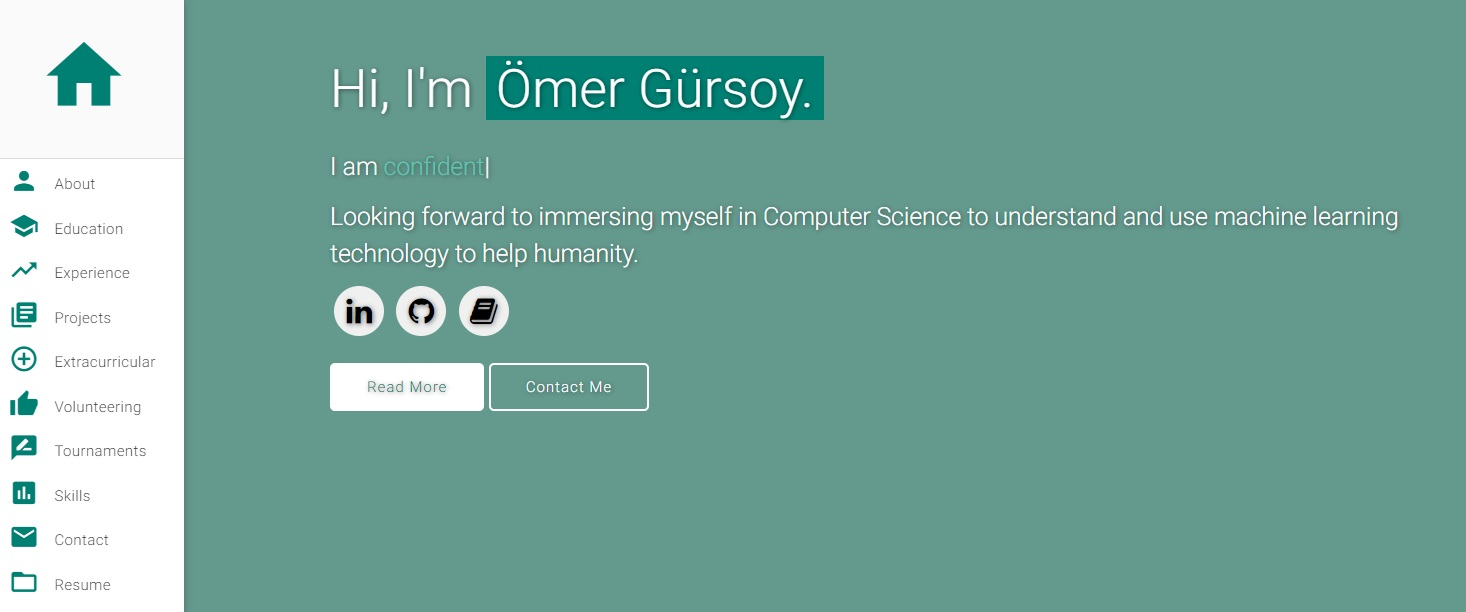
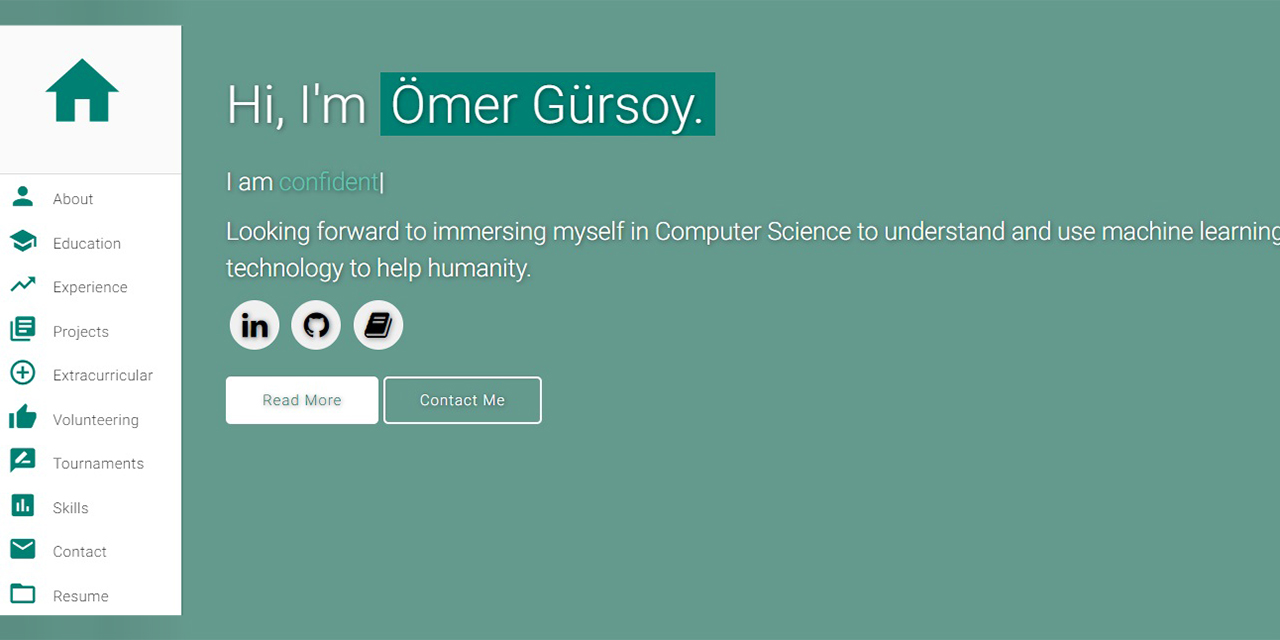
Fixed links and preview resolution.

diff --git a/index.html b/index.html
@@ -19,7 +19,7 @@
   <!-- Font Awesome Icon - CSS-->
   <link rel="stylesheet" href="//maxcdn.bootstrapcdn.com/font-awesome/4.3.0/css/font-awesome.min.css" />
   <!-- Custom Styles-->
-  <link rel="stylesheet" href="/assets/css/style.css" />
+  <link rel="stylesheet" href="https://omergursoy04.github.io/portfolio/assets/css/style.css" />
   <title>Ömer Gürsoy | Student Portfolio</title>
 
   <!-- Global site tag (gtag.js) - Google Analytics -->
@@ -327,7 +327,7 @@
             <div class="row">
               <div class="col s12 m2">
                 <a href="https://www.tazi.ai/" target="_blank"><img alt="TAZI.AI logo"
-                    src="\assets\img\logo-tazi.webp" class="responsive-img center-block" /></a>
+                    src="https://omergursoy04.github.io/portfolio/assets/img/logo-tazi.webp" class="responsive-img center-block" /></a>
               </div>
               <!-- <div class="col s12 m10"> -->
               <div class="col s12 m10">
@@ -359,7 +359,7 @@
             <div class="row">
               <div class="col s12 m2">
                 <a href="http://www.sevanbicakci.com/" target="_blank"><img alt="Sevan Bicakci logo"
-                    src="/assets\img\bıcakcilogo.png" class="responsive-img center-block" /></a>
+                    src="https://omergursoy04.github.io/portfolio/assets/img/bıcakcilogo.png" class="responsive-img center-block" /></a>
               </div>
               <!-- <div class="col s12 m10"> -->
               <div class="col s12 m10">
@@ -401,7 +401,7 @@
           <div class="col s12 m6 l4">
             <div class="card medium">
               <div class="card-image waves-effect waves-block waves-light">
-                <img alt="pexels-credit-tara-winstead-robot-hand-reaching-out" src="/assets\img\project-machinelearning-pexels-tara-winstead-8386440.jpg" style="height: 100%; width: 100%" class="activator" />
+                <img alt="pexels-credit-tara-winstead-robot-hand-reaching-out" src="https://omergursoy04.github.io/portfolio/assets/img/project-machinelearning-pexels-tara-winstead-8386440.jpg" style="height: 100%; width: 100%" class="activator" />
               </div>
               <div class="card-content">
                 <span class="card-title activator teal-text hoverline">Machine Learning and AlphaZero<i
@@ -411,10 +411,10 @@
                 </p>
               </div>
               <div class="card-reveal">
-                <span class="card-title grey-text"><small>Accomplishments</small><i
+                <span class="card-title grey-text"><small>Content</small><i
                     class="mdi-navigation-close right"></i></span>
                 <ul>
-                  <p><b>Contents</b>: What is Machine Learning and its subsections, History of AlphaZero and what it has achieved, 
+                  <p>What is Machine Learning and its subsections, History of AlphaZero and what it has achieved, 
                   Deep Learning, Conclusion, Bibliography</p>
                 </ul>
                 <div class="card-action">
@@ -499,7 +499,7 @@
               <div class="card-content">
                 <div class="row">
                   <div class="col s12 m2">
-                    <img alt="skillsgap logo" src="/assets\img\logo-skillsgap.png" class="responsive-img center-block" />
+                    <img alt="skillsgap logo" src="https://omergursoy04.github.io/portfolio/assets/img/logo-skillsgap.png" class="responsive-img center-block" />
     
                   </div>
                   <div class="col s12 m10">
@@ -537,7 +537,7 @@
                 <div class="row">
                   <div class="col s12 m2">
                     <a href="https://www.hayatarenkver.org/" target="_blank"><img alt="hayatarenkver logo"
-                        src="/assets\img\logo-hayatarenkver.png" class="responsive-img center-block" /></a>
+                        src="https://omergursoy04.github.io/portfolio/assets/img/logo-hayatarenkver.png" class="responsive-img center-block" /></a>
                   </div>
                   <div class="col s12 m10">
                     <p>
@@ -562,7 +562,7 @@
                 <div class="row">
                   <div class="col s12 m2">
                     <a href="https://yga.org.tr/" target="_blank"><img alt="YGA logo"
-                        src="/assets\img\logo-yga.png" class="responsive-img center-block" /></a>
+                        src="https://omergursoy04.github.io/portfolio/assets/img/logo-yga.png" class="responsive-img center-block" /></a>
                   </div>
                   <!-- <div class="col s12 m10"> -->
                   <div class="col s12 m10">
@@ -626,7 +626,7 @@
                 <div class="row">
                   <div class="col s12 m2">
                     <a href="https://www.ukmt.org.uk/" target="_blank"><img alt="YGA logo"
-                        src="/assets\img\logo-ukmt.png" class="responsive-img center-block" /></a>
+                        src="https://omergursoy04.github.io/portfolio/assets/img/logo-ukmt.png" class="responsive-img center-block" /></a>
                   </div>
                   <div class="col s12 m10">
                     <p>
@@ -648,7 +648,7 @@
                 <div class="row">
                   <div class="col s12 m2">
                     <a href="https://www.bpho.org.uk/" target="_blank"><img alt="bpo logo"
-                        src="/assets\img\logo-bpo.png" class="responsive-img center-block" /></a>
+                        src="https://omergursoy04.github.io/portfolio/assets/img/logo-bpo.png" class="responsive-img center-block" /></a>
                   </div>
                   <div class="col s12 m10">
                     <p>
@@ -684,19 +684,19 @@
             <h4 class="brown-text light">Technical</h4>
             <div class="row text-center">
               <div class="col s4 m2">
-                <img alt="" src="/assets/img/python-logo-1-300x300.jpg" class="responsive-img" />Python<br>Beginner
+                <img alt="" src="https://omergursoy04.github.io/portfolio/assets/img/python-logo-1-300x300.jpg" class="responsive-img" />Python<br>Beginner
               </div>
               <div class="col s4 m2">
-                <img alt="" src="/assets\img\logo-microsoftword.svg" class="responsive-img" />Microsoft<br>Word
+                <img alt="" src="https://omergursoy04.github.io/portfolio/assets/img/logo-microsoftword.svg" class="responsive-img" />Microsoft<br>Word
               </div>
               <div class="col s4 m2">
-                <img alt="" src="/assets\img\logo-microsoftexcel.svg" class="responsive-img" />Microsoft<br>Excel
+                <img alt="" src="https://omergursoy04.github.io/portfolio/assets/img/logo-microsoftexcel.svg" class="responsive-img" />Microsoft<br>Excel
               </div>
               <div class="col s4 m2">
-                <img alt="" src="/assets\img\logo-microsoftpowerpoint.svg" class="responsive-img" />Microsoft<br>PowerPoint
+                <img alt="" src="https://omergursoy04.github.io/portfolio/assets/img/logo-microsoftpowerpoint.svg" class="responsive-img" />Microsoft<br>PowerPoint
               </div>
               <div class="col s4 m2">
-                <img alt="" src="/assets\img\logo-microsoftteams.svg" class="responsive-img" />Microsoft<br>Teams
+                <img alt="" src="https://omergursoy04.github.io/portfolio/assets/img/logo-microsoftteams.svg" class="responsive-img" />Microsoft<br>Teams
               </div>
             </div>
           </div>
